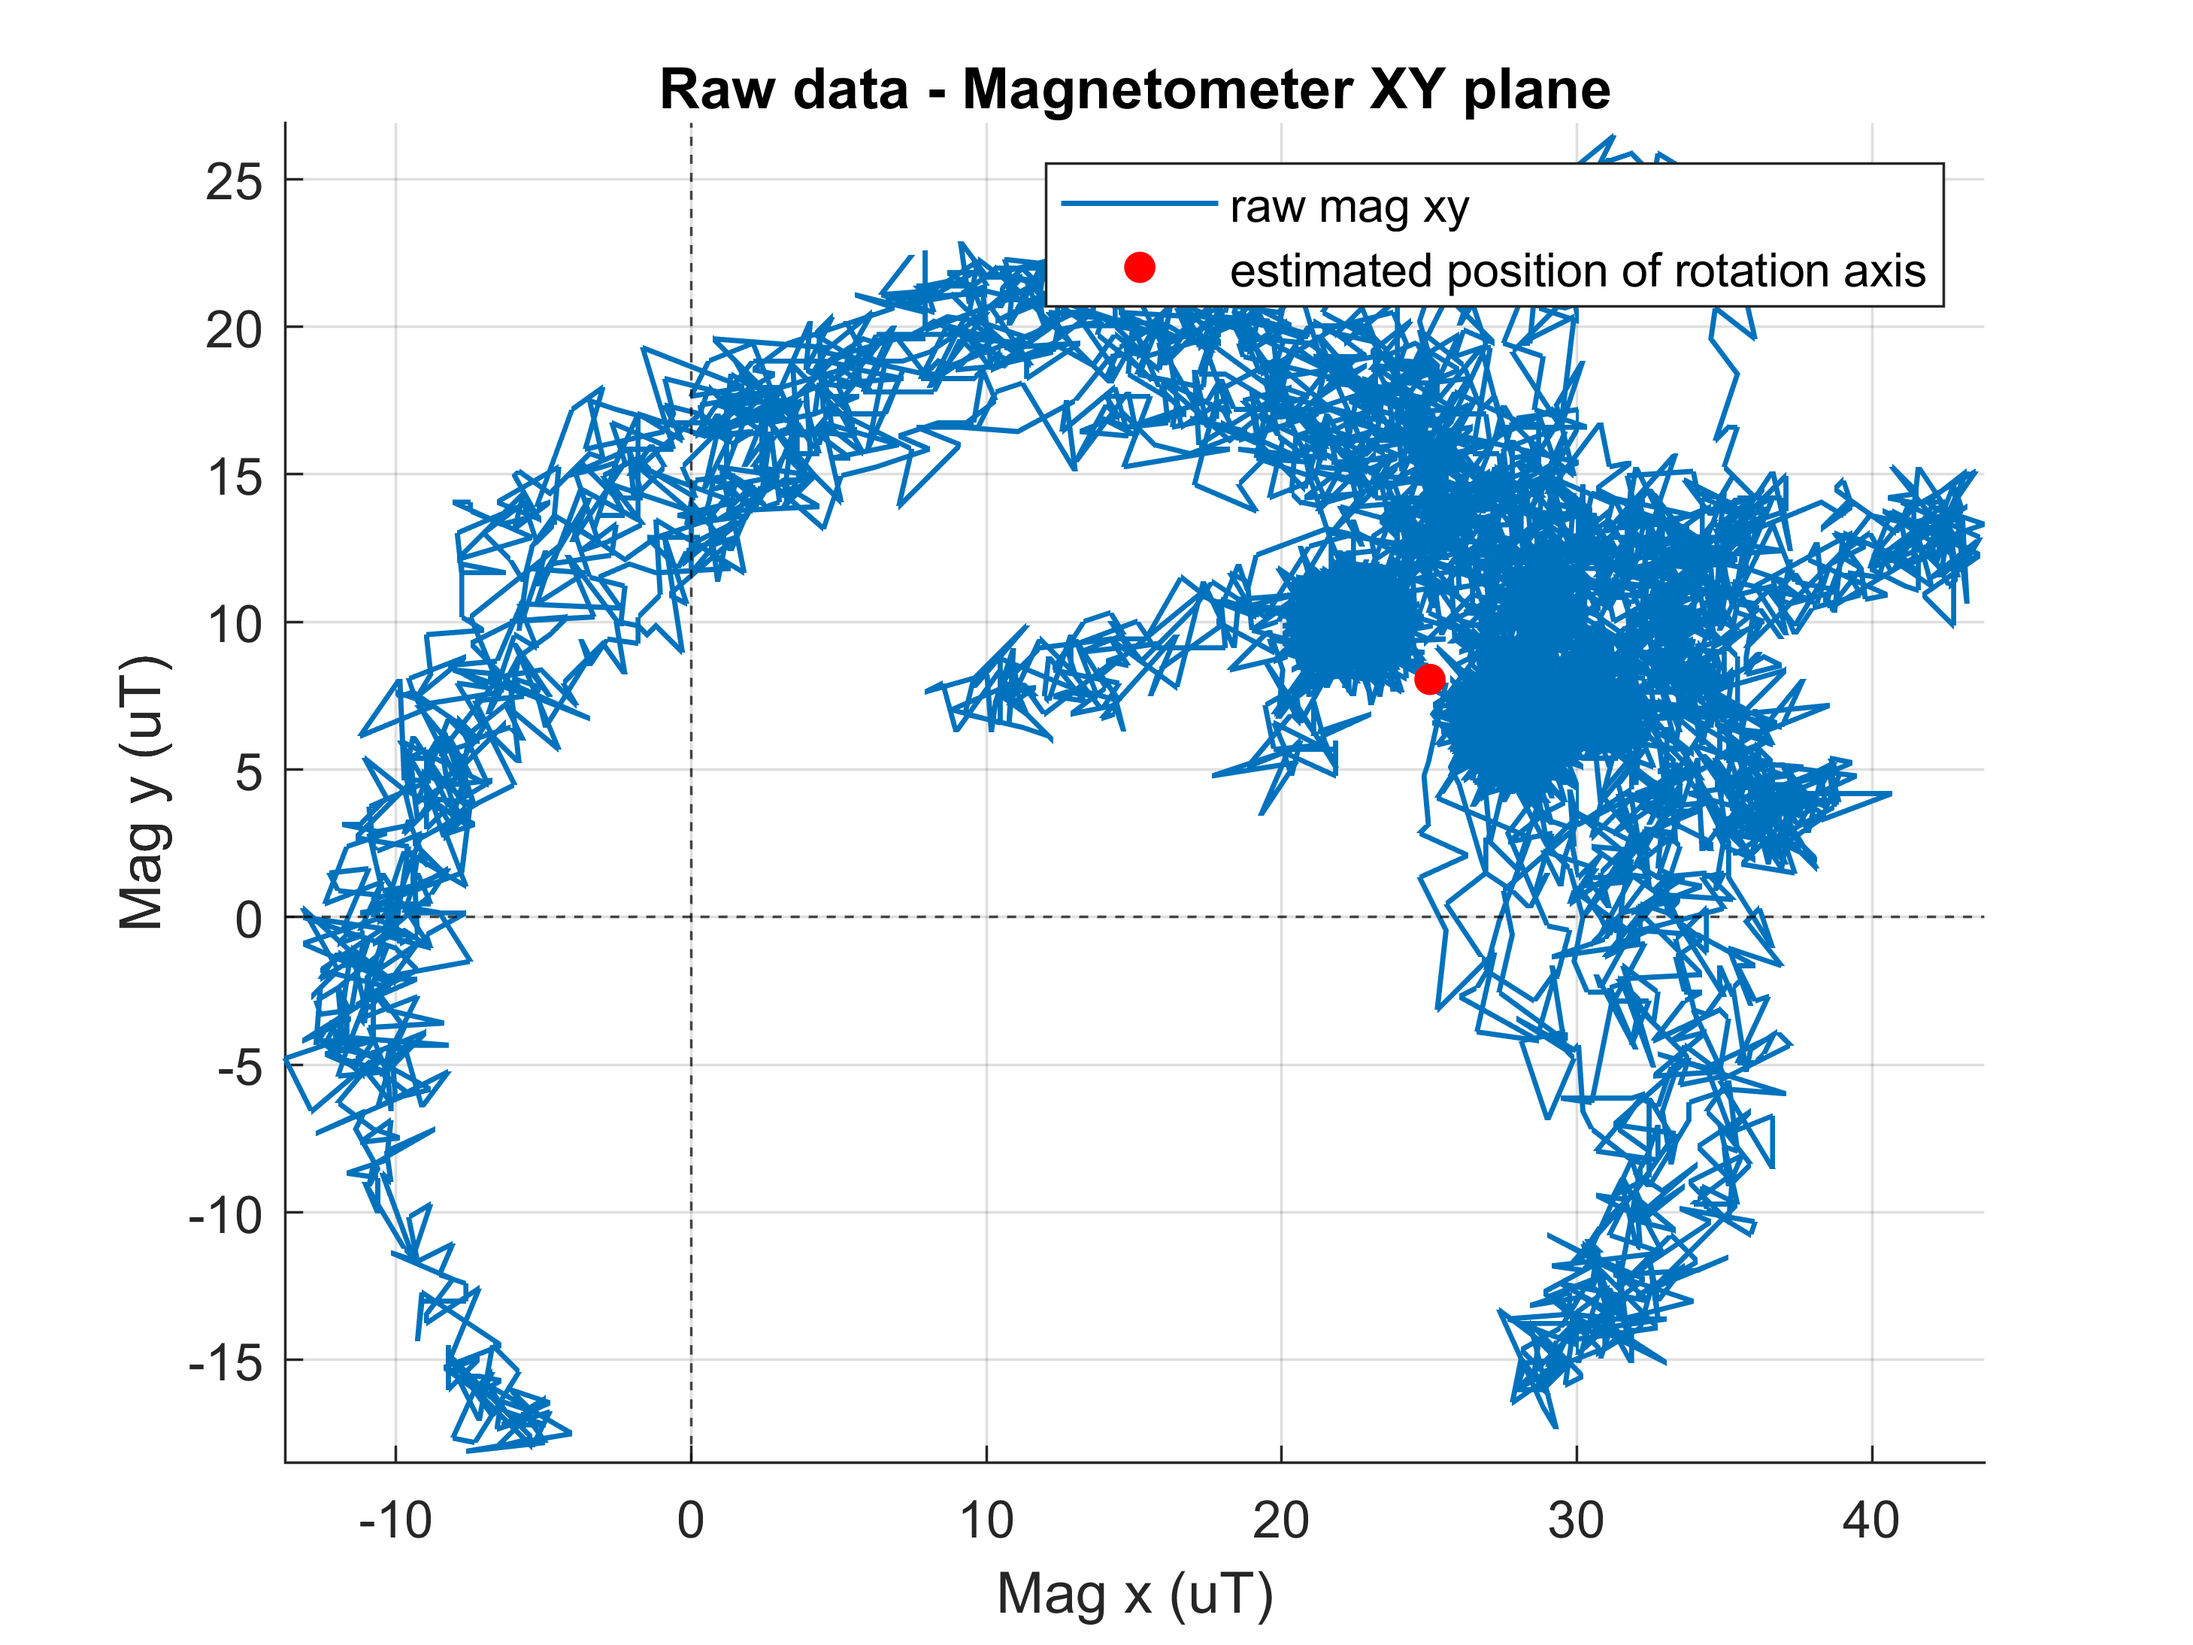
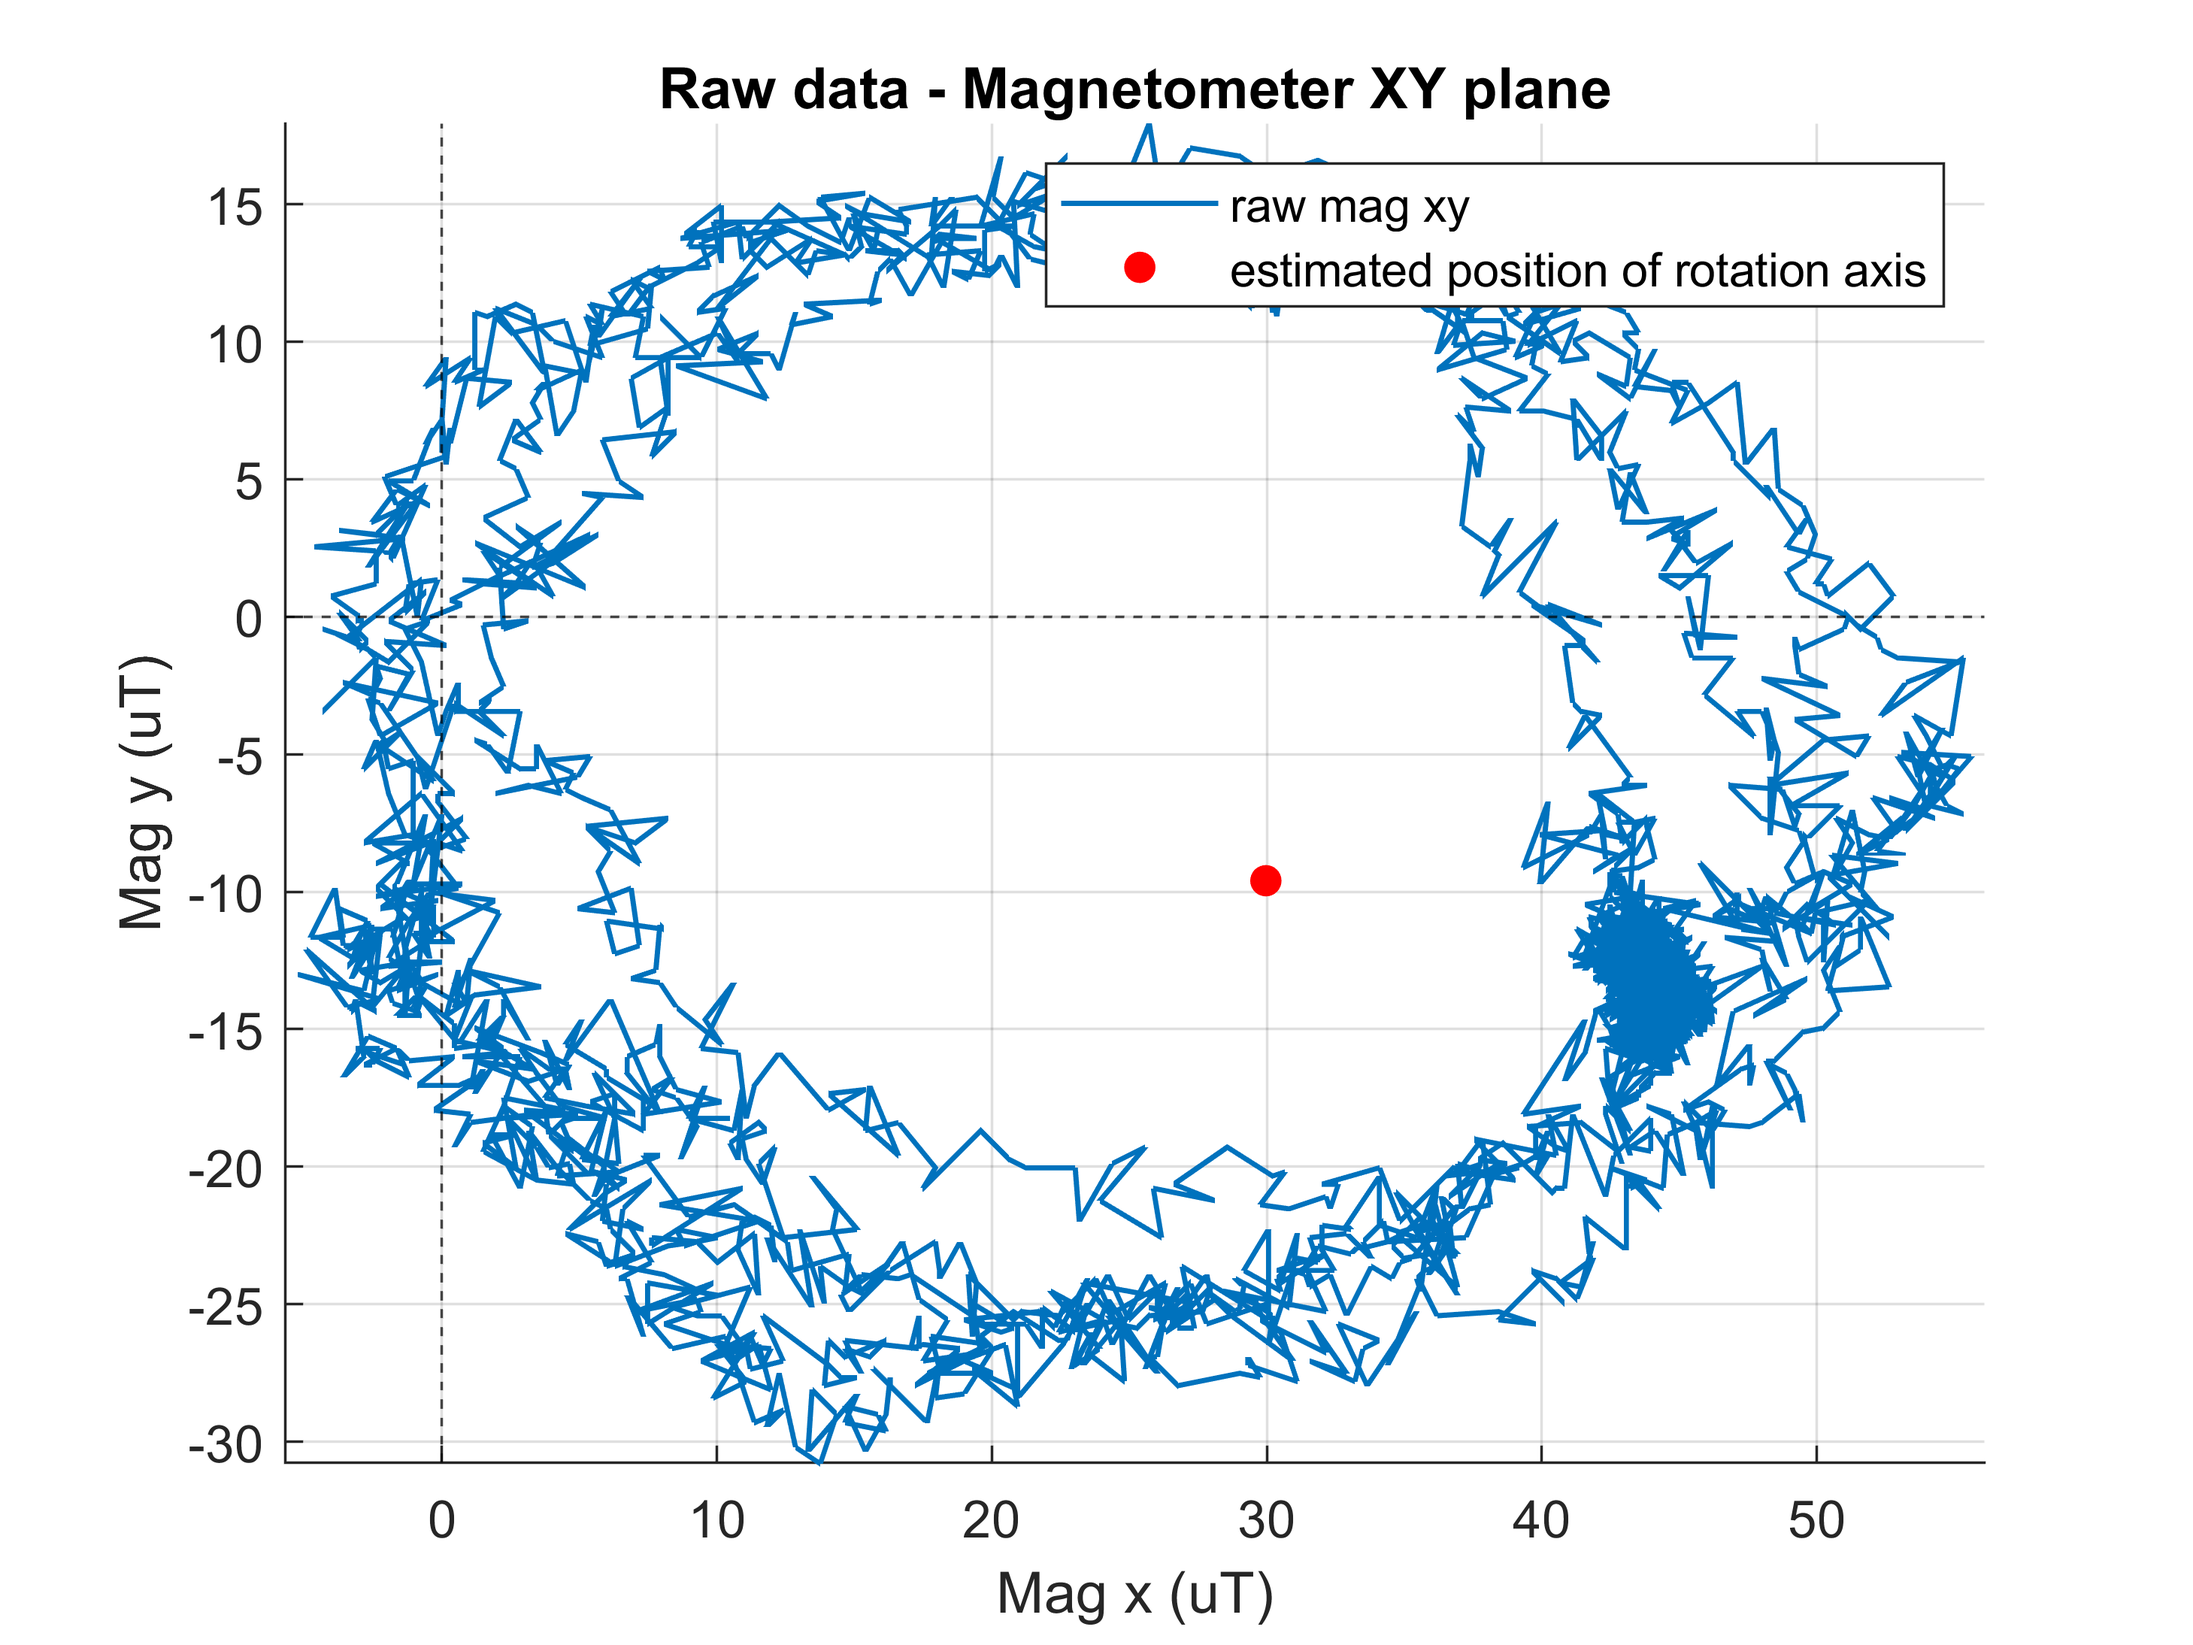
Temporal update from laptop

diff --git a/vqf/matlab/raw_data_plot.m b/vqf/matlab/raw_data_plot.m
@@ -1,161 +1,67 @@
 close all; clear all; clc;
 
 rawData = readtable("log\Huro_06_23_1636.csv");
-diffData = readtable("log\Diff_06_23_1636.csv");
 %%
 time_step = 1/570;
 data_len = length(rawData.Counter);
 time = linspace(time_step, data_len*time_step, data_len);
-
-rawAccPlot = figure();
-hold on; grid on;
-rawAx = plot(time, rawData.ax, 'LineWidth', 1);
-rawAy = plot(time, rawData.ay, 'LineWidth', 1);
-rawAz = plot(time, rawData.az, 'LineWidth', 1);
-legend([rawAx, rawAy, rawAz], {"raw acc x", "raw acc y", "raw acc z"});
-xlabel("time (s)"); ylabel("Acc (m/s^2)"); title("Raw data - Accelerometer");
-print("raw_acc_plot_case_2.png", "-dpng", "-r500");
-
-rad2deg = 180/pi;
-rawGryPlot = figure();
-hold on; grid on;
-rawGx = plot(time, rawData.gx.*rad2deg, 'LineWidth', 1);
-rawGy = plot(time, rawData.gy.*rad2deg, 'LineWidth', 1);
-rawGz = plot(time, rawData.gz.*rad2deg, 'LineWidth', 1);
-legend([rawGx, rawGy, rawGz], {"raw gry x", "raw gry y", "raw gry z"});
-xlabel("time (s)"); ylabel("Gry (deg/s)"); title("Raw data - Gyroscope");
-print("raw_gry_plot_case_2.png", "-dpng", "-r500");
-
-rawMagPlot = figure();
-hold on; grid on;
-rawMx = plot(time, rawData.mx, 'LineWidth', 1);
-rawMy = plot(time, rawData.my, 'LineWidth', 1);
-rawMz = plot(time, rawData.mz, 'LineWidth', 1);
-rawMnorm = plot(time, vecnorm([rawData.mx, rawData.my, rawData.mz], 2, 2));
-legend([rawMx, rawMy, rawMz, rawMnorm], {"raw mag x", "raw mag y", "raw mag z", "raw mag norm"}, "Location", "best");
-xlabel("time (s)"); ylabel("Mag (uT)"); title("Raw data - Magnetometer");
-print("raw_mag_plot_case_2.png", "-dpng", "-r500");
-
-rawMagXY = figure();
-hold on; grid on; axis equal;
-magXY = plot(rawData.mx, rawData.my, 'LineWidth', 1);
-estK = scatter(mean(rawData.mx), mean(rawData.my), 'r', 'filled');
-xline(0, 'k--'); yline(0, 'k--');
-legend([magXY, estK], {"raw mag xy", "estimated position of rotation axis"});
-xlabel("Mag x (uT)"); ylabel("Mag y (uT)"); title("Raw data - Magnetometer XY plane");
-print("raw_mag_xy_plot_case_2.png", "-dpng", "-r500");
-
-vqfRPY = figure();
-hold on; grid on;
-rawR = plot(time, rawData.roll, 'LineWidth', 1);
-rawP = plot(time, rawData.pitch, 'LineWidth', 1);
-rawY = plot(time, rawData.yaw, 'LineWidth', 1);
-legend([rawR, rawP, rawY], {"raw roll", "raw pitch", "raw yaw"});
-xlabel("time (s)"); ylabel("Angle (degrees)"); title("Raw data - Roll, Pitch, Yaw");
-print("raw_rpy_plot_case_2.png", "-dpng", "-r500");
-
-%%
-rawX = rawData.mx;
-rawY = rawData.my;
-
-y = -rawX.^2;
-c1 = rawX.*rawY;
-c2 = rawY.^2;
-c3 = rawX;
-c4 = rawY;
-c5 = ones([data_len, 1]);
-
-A = [c1, c2, c3, c4, c5];
-coeff = ((A'*A)\A') * y;
-
-a_ = 1;
-b_ = coeff(1);
-c_ = coeff(2);
-d_ = coeff(3);
-e_ = coeff(4);
-f_ = coeff(5);
-
-delta = atan2(b_, 1 - c_) / 2;
-c_x = (2*c_*d_ - b_*e_) / (b_^2 - 4 * c_);
-c_y = (2*a_*e_ - b_*d_) / (b_^2 - 4 * c_);
-cos_d = cos(delta);
-sin_d = sin(delta);
-w = sqrt((c_x^2 + b_*c_x*c_y  + c_*c_y^2 - f_) / (cos_d^2 + b_*cos_d*sin_d + c_*sin_d^2));
-h = sqrt((c_x^2 + b_*c_x*c_y  + c_*c_y^2 - f_) / (sin_d^2 + b_*cos_d*sin_d + c_*cos_d^2));
-sigma = h/w;
-tmpxcal = (cos_d * (rawX - c_x) + sin_d * (rawY - c_y)) * sigma;
-tmpycal = -sin_d * (rawX - c_x) + cos_d * (rawY - c_y);
-xcal = cos_d * tmpxcal - sin_d * tmpycal;
-ycal = sin_d * tmpxcal + cos_d * tmpycal;
-
-calMagXY = figure();
-hold on; 
-rawXY = scatter(rawData.mx, rawData.my, 'Marker', '.');
-calXY = scatter(xcal, ycal, 'Marker', '.');
-xline(0, 'k--'); yline(0, 'k--');
-grid on; 
-legend([rawXY, calXY], {"raw mag xy", "cal mag xy"});
-axis equal;
-xlabel("Mag x (uT)"); ylabel("Mag y (uT)"); title("comparison of raw and calibrated magnetometer data in XY plane");
-print("raw_cal_mag_xy.png", "-dpng", "-r500");
-
-ax2_o = -rawData.mx.^2;
-ay2_i = rawData.my.^2;
-az2_i = rawData.mz.^2;
-axy_i = rawData.mx.*rawData.my;
-ayz_i = rawData.my.*rawData.mz;
-azx_i = rawData.mz.*rawData.mx;
-ax_i  = rawData.mx;
-ay_i  = rawData.my;
-az_i  = rawData.mz;
-a0_i  = ones([length(rawData.mx), 1]);
-
-A3d = [ay2_i, az2_i, axy_i, ayz_i, azx_i, ax_i, ay_i, az_i, a0_i];
-
-coeff3d = (A3d'*A3d)\A3d'*ax2_o;
-
-center = [         -2,   -coeff3d(3),   -coeff3d(5);...
- -coeff3d(3), -2*coeff3d(1),   -coeff3d(4);...
- -coeff3d(5),   -coeff3d(4), -2*coeff3d(2)]\[coeff3d(6); coeff3d(7); coeff3d(8)];
-
-% xyplane.A = []
-
-% A_ = [ax_i-center(1), ay_i-center(2), az_i-center(3)];
-% [V_, D_] = eig(A_'*A_);
 % 
-% calA = A_*V_;
-
-r = 35;
-[sp_x, sp_y, sp_z] = sphere(100);
-sp_x = sp_x*r;
-sp_y = sp_y*r;
-sp_z = sp_z*r;
-
-% rawMagXYZ = figure();
+% rawAccPlot = figure();
 % hold on; grid on;
-% % rawXYZ = scatter3(rawData.mx, rawData.my, rawData.mz, 'Marker', '.');
-% calXYZ = scatter3(ax_i-center(1), ay_i-center(2), az_i-center(3), 'Marker', '.');
-% surf(sp_x, sp_y, sp_z, 'EdgeColor', 'none', 'FaceColor', 'b', 'FaceAlpha', 0.1);
-% axis equal; 
-% xlabel('x'); ylabel('y'); zlabel('z');
-% view([-51, 32]);
-
-
-% rawGyro = figure();
+% rawAx = plot(time, rawData.ax, 'LineWidth', 1);
+% rawAy = plot(time, rawData.ay, 'LineWidth', 1);
+% rawAz = plot(time, rawData.az, 'LineWidth', 1);
+% legend([rawAx, rawAy, rawAz], {"raw acc x", "raw acc y", "raw acc z"});
+% xlabel("time (s)"); ylabel("Acc (m/s^2)"); title("Raw data - Accelerometer");
+% print("raw_acc_plot_case_2.png", "-dpng", "-r500");
+% 
+% rad2deg = 180/pi;
+% rawGryPlot = figure();
 % hold on; grid on;
-% rawGryx = plot(time, rawData.gx, 'r');
-% rawGryy = plot(time, rawData.gy, 'g');
-% rawGryz = plot(time, rawData.gz, 'b');
-
+% rawGx = plot(time, rawData.gx.*rad2deg, 'LineWidth', 1);
+% rawGy = plot(time, rawData.gy.*rad2deg, 'LineWidth', 1);
+% rawGz = plot(time, rawData.gz.*rad2deg, 'LineWidth', 1);
+% legend([rawGx, rawGy, rawGz], {"raw gry x", "raw gry y", "raw gry z"});
+% xlabel("time (s)"); ylabel("Gry (deg/s)"); title("Raw data - Gyroscope");
+% print("raw_gry_plot_case_2.png", "-dpng", "-r500");
+% 
+% rawMagPlot = figure();
+% hold on; grid on;
+% rawMx = plot(time, rawData.mx, 'LineWidth', 1);
+% rawMy = plot(time, rawData.my, 'LineWidth', 1);
+% rawMz = plot(time, rawData.mz, 'LineWidth', 1);
+% rawMnorm = plot(time, vecnorm([rawData.mx, rawData.my, rawData.mz], 2, 2));
+% legend([rawMx, rawMy, rawMz, rawMnorm], {"raw mag x", "raw mag y", "raw mag z", "raw mag norm"}, "Location", "best");
+% xlabel("time (s)"); ylabel("Mag (uT)"); title("Raw data - Magnetometer");
+% print("raw_mag_plot_case_2.png", "-dpng", "-r500");
+% 
+% rawMagXY = figure();
+% hold on; grid on; axis equal;
+% magXY = plot(rawData.mx, rawData.my, 'LineWidth', 1);
+% estK = scatter(mean(rawData.mx), mean(rawData.my), 'r', 'filled');
+% xline(0, 'k--'); yline(0, 'k--');
+% legend([magXY, estK], {"raw mag xy", "estimated position of rotation axis"});
+% xlabel("Mag x (uT)"); ylabel("Mag y (uT)"); title("Raw data - Magnetometer XY plane");
+% print("raw_mag_xy_plot_case_2.png", "-dpng", "-r500");
+% 
+% vqfRPY = figure();
+% hold on; grid on;
+% rawR = plot(time, rawData.roll, 'LineWidth', 1);
+% rawP = plot(time, rawData.pitch, 'LineWidth', 1);
+% rawY = plot(time, rawData.yaw, 'LineWidth', 1);
+% legend([rawR, rawP, rawY], {"raw roll", "raw pitch", "raw yaw"});
+% xlabel("time (s)"); ylabel("Angle (degrees)"); title("Raw data - Roll, Pitch, Yaw");
+% print("raw_rpy_plot_case_2.png", "-dpng", "-r500");
+% 
 
 buf_hz = 1/0.05;
 buf_time = 1/buf_hz : 1/buf_hz : 1/buf_hz*length(diffData.Time);
-diffPlot = figure();
-hold on; grid on;
-diffRol = plot(buf_time, diffData.Diff_Roll, 'r', 'LineWidth', 1);
-diffPit = plot(buf_time, diffData.Diff_Pitch, 'g', 'LineWidth', 1);
-diffYaw = plot(buf_time, diffData.Diff_Yaw, 'b', 'LineWidth', 1);
-ylim([-6, 6]);
+% diffPlot = figure();
+% hold on; grid on;
+% diffRol = plot(buf_time, diffData.Diff_Roll, 'r', 'LineWidth', 1);
+% diffPit = plot(buf_time, diffData.Diff_Pitch, 'g', 'LineWidth', 1);
+% diffYaw = plot(buf_time, diffData.Diff_Yaw, 'b', 'LineWidth', 1);
+% ylim([-6, 6]);
 
 % huroRol = plot(buf_time, diffData.Huro_Roll, 'r');
 % huroPit = plot(buf_time, diffData.Huro_Pitch, 'g');

diff --git a/vqf/matlab/offline_cal_2dlsm.m b/vqf/matlab/offline_cal_2dlsm.m
@@ -1,0 +1,47 @@
+close all; clear all; clc;
+rawData = readtable("log\Huro_06_20_1548.csv");
+
+time_step = 1/570;
+data_len = length(rawData.Counter);
+time = linspace(time_step, data_len*time_step, data_len);
+
+y = -rawData.mx.^2;
+c1 = rawData.mx.*rawData.my;
+c2 = rawData.my.^2;
+c3 = rawData.mx;
+c4 = rawData.my;
+c5 = ones([data_len, 1]);
+
+A = [c1, c2, c3, c4, c5];
+coeff = ((A'*A)\A') * y;
+
+a_ = 1;
+b_ = coeff(1);
+c_ = coeff(2);
+d_ = coeff(3);
+e_ = coeff(4);
+f_ = coeff(5);
+
+delta = atan2(b_, 1 - c_) / 2;
+c_x = (2*c_*d_ - b_*e_) / (b_^2 - 4 * c_);
+c_y = (2*a_*e_ - b_*d_) / (b_^2 - 4 * c_);
+cos_d = cos(delta);
+sin_d = sin(delta);
+w = sqrt((c_x^2 + b_*c_x*c_y  + c_*c_y^2 - f_) / (cos_d^2 + b_*cos_d*sin_d + c_*sin_d^2));
+h = sqrt((c_x^2 + b_*c_x*c_y  + c_*c_y^2 - f_) / (sin_d^2 + b_*cos_d*sin_d + c_*cos_d^2));
+sigma = h/w;
+tmpxcal = (cos_d * (rawData.mx - c_x) + sin_d * (rawData.my - c_y)) * sigma;
+tmpycal = -sin_d * (rawData.mx - c_x) + cos_d * (rawData.my - c_y);
+xcal = cos_d * tmpxcal - sin_d * tmpycal;
+ycal = sin_d * tmpxcal + cos_d * tmpycal;
+
+calMagXY = figure();
+hold on; 
+rawDataXY = scatter(rawData.mx, rawData.my, 'Marker', '.');
+calXY = scatter(xcal, ycal, 'Marker', '.');
+xline(0, 'k--'); yline(0, 'k--');
+grid on; 
+legend([rawData.mxY, calXY], {"raw mag xy", "cal mag xy"});
+axis equal;
+xlabel("Mag x (uT)"); ylabel("Mag y (uT)"); title("comparison of raw and calibrated magnetometer data in XY plane");
+print("raw_cal_mag_xy.png", "-dpng", "-r500");

diff --git a/vqf/matlab/offline_cal_3dlsm.m b/vqf/matlab/offline_cal_3dlsm.m
@@ -1,0 +1,44 @@
+close all; clear all; clc;
+rawData = readtable("log\Huro_06_23_1544.csv");
+
+% mc : matrix column
+mc_1 = rawData.mx.^2;
+mc_2 = rawData.my.^2;
+mc_3 = rawData.mz.^2;
+mc_4 = 2*rawData.mx.*rawData.my;
+mc_5 = 2*rawData.mx.*rawData.mz;
+mc_6 = 2*rawData.my.*rawData.mz;
+mc_7 = rawData.mx;
+mc_8 = rawData.my;
+mc_9 = rawData.mz;
+
+% y : output 
+y = -1*ones(height(rawData), 1);
+
+A = [mc_1 mc_2 mc_3 mc_4 mc_5 mc_6 mc_7 mc_8 mc_9];
+x = (A' * A) \ (A' * y);
+M = [x(1) x(4) x(5);
+    x(4) x(2) x(6);
+    x(5) x(6) x(3)];
+b = [x(7), x(8), x(9)];
+
+[V, D] = eig(M);
+
+new_b = b * V;
+
+% Scale the matrix to make it a unit sphere
+scale_q = sqrt(new_b(1)^2/(4*D(1, 1)) + new_b(2)^2/(4*D(2, 2)) + new_b(3)^2/(4*D(3, 3)) - 1);
+scale_matrix = sqrt(D)./scale_q;
+
+hard_iron = [new_b(1)/D(1,1), new_b(2)/D(2, 2), new_b(3)/D(3, 3)]./2;
+soft_iron = V*scale_matrix;
+cal_mag_xyz = (soft_iron * (V' * [rawData.mx, rawData.my, rawData.mz]' + hard_iron'))'./scale_matrix(1,1);
+
+
+rawPlot = figure();
+grid on; hold on; 
+rawMag = scatter3(rawData.mx, rawData.my, rawData.mz, 'Marker', '.');
+calMag = scatter3(cal_mag_xyz(:, 1), cal_mag_xyz(:, 2), cal_mag_xyz(:, 3), 'Marker', '.');
+axis equal;
+
+
